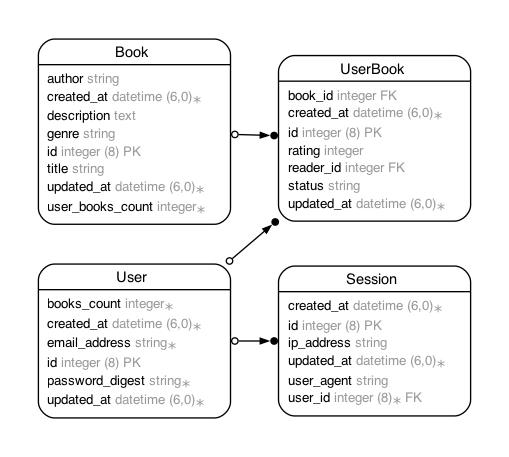
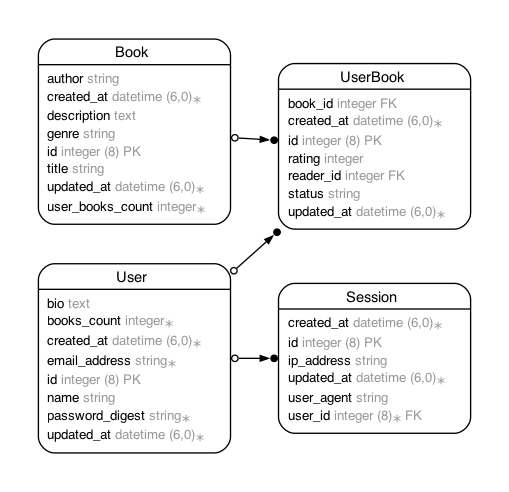
added name and bio columns to users

diff --git a/db/schema.rb b/db/schema.rb
@@ -10,7 +10,7 @@
 #
 # It's strongly recommended that you check this file into your version control system.
 
-ActiveRecord::Schema[8.0].define(version: 2025_12_02_211954) do
+ActiveRecord::Schema[8.0].define(version: 2025_12_11_164359) do
   # These are extensions that must be enabled in order to support this database
   enable_extension "pg_catalog.plpgsql"
 
@@ -188,6 +188,8 @@ ActiveRecord::Schema[8.0].define(version: 2025_12_02_211954) do
     t.string "email_address", null: false
     t.string "password_digest", null: false
     t.integer "books_count", default: 0, null: false
+    t.string "name"
+    t.text "bio"
     t.datetime "created_at", null: false
     t.datetime "updated_at", null: false
     t.index ["email_address"], name: "index_users_on_email_address", unique: true

diff --git a/app/models/user.rb b/app/models/user.rb
@@ -3,8 +3,10 @@
 # Table name: users
 #
 #  id              :bigint           not null, primary key
+#  bio             :text
 #  books_count     :integer          default(0), not null
 #  email_address   :string           not null
+#  name            :string
 #  password_digest :string           not null
 #  created_at      :datetime         not null
 #  updated_at      :datetime         not null

diff --git a/db/migrate/20251211164359_add_name_bio_to_users.rb b/db/migrate/20251211164359_add_name_bio_to_users.rb
@@ -1,0 +1,6 @@
+class AddNameBioToUsers < ActiveRecord::Migration[8.0]
+  def change
+    add_column :users, :name, :string
+    add_column :users, :bio, :text
+  end
+end
